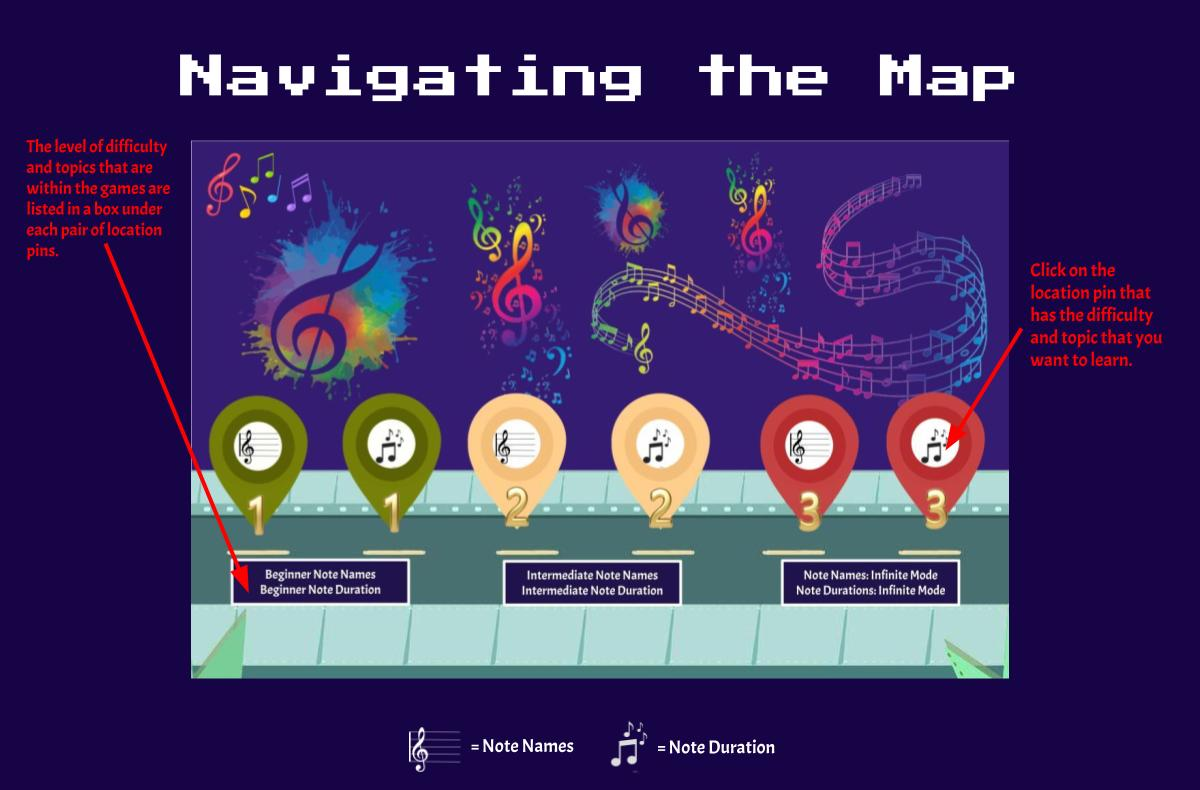
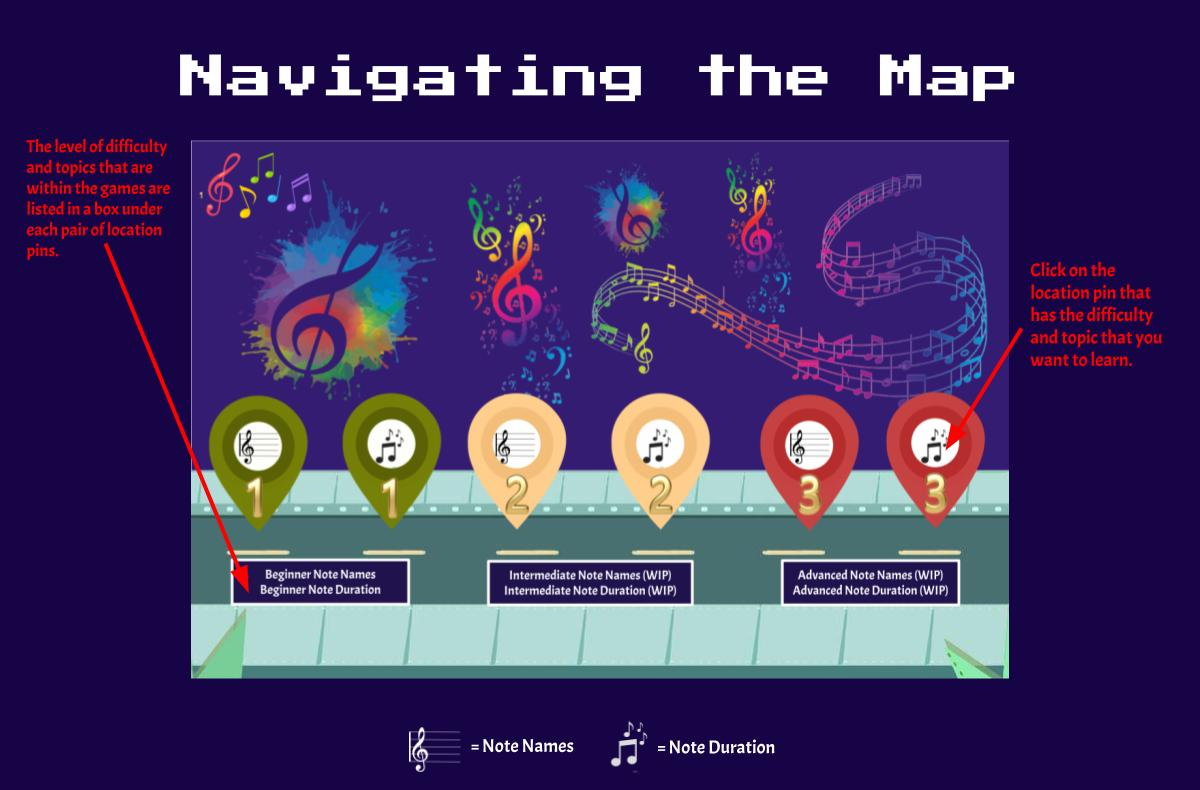
updated images

diff --git a/code/main.py b/code/main.py
@@ -28,17 +28,17 @@ class Game:
         # Background
         self.frontPage = pygame.image.load("../resources/frontpage.png")
         self.levelBackground = pygame.image.load("../resources/background.jpg")
-        self.AdvancedImage = pygame.image.load("../resources/Advanced.png")
+        self.inf_mode_img = pygame.image.load("../resources/infinite.png")
         self.startButtonImage = pygame.image.load("../resources/start.png")
         self.creditsButtonImage = pygame.image.load("../resources/credits.png")
         self.nextButtonImage = pygame.image.load("../resources/next3.png")
-        self.beginnerMap = pygame.image.load("../resources/beginner_map.jpg")
+        self.beginnerMap = pygame.image.load("../resources/beginner_map.png")
         self.beginnerTopicsCovered = pygame.image.load("../resources/beginnertopics.png")
         self.beginnerImage = pygame.image.load("../resources/beginner.png")
         self.informationPage1 = pygame.image.load("../resources/NDNotes.jpg")
         self.NDhow2play = pygame.image.load("../resources/NDdirections.png")
         self.playButton = pygame.image.load("../resources/play.png")
-        self.advMapImage = pygame.image.load("../resources/WorkInProgress.jpg")
+        self.work_in_progress = pygame.image.load("../resources/WorkInProgress.jpg")
         self.backImage = pygame.image.load("../resources/back3.png")
         self.button = pygame.image.load("../resources/copybutton3.png")
         self.pizzaNotes1 = pygame.image.load("../resources/treble_notes.png")
@@ -92,7 +92,7 @@ class Game:
         # rects
         self.beginnerRect = pygame.Rect(600-self.beginnerImage.get_width()/2, 50, self.beginnerImage.get_width(), self.beginnerImage.get_height())
         self.startRect = pygame.Rect(540, 200, self.startButtonImage.get_width(), self.startButtonImage.get_height())
-        self.infRect = pygame.Rect(600-self.AdvancedImage.get_width()/2, 400, self.AdvancedImage.get_width(), self.AdvancedImage.get_height())
+        self.infRect = pygame.Rect(600-self.inf_mode_img.get_width()/2, 400, self.inf_mode_img.get_width(), self.inf_mode_img.get_height())
         self.creditsButton = pygame.Rect(530, 300, self.creditsButtonImage.get_width(), self.creditsButtonImage.get_height())
         self.nextButton = pygame.Rect(width-self.nextButtonImage.get_width(), height-self.nextButtonImage.get_height(), self.nextButtonImage.get_width(), self.nextButtonImage.get_height())
         self.noteDurationStage1 = pygame.Rect(28, 341, 139, 188)
@@ -153,7 +153,7 @@ class Game:
                 self.SCREEN.fill(0)
                 self.SCREEN.blit(self.levelBackground, (0, 0))
                 self.SCREEN.blit(self.beginnerImage,(600-self.beginnerImage.get_width()/2, 50))
-                self.SCREEN.blit(self.AdvancedImage, (600-self.AdvancedImage.get_width()/2, 400, self.AdvancedImage.get_width(), self.AdvancedImage.get_height()))
+                self.SCREEN.blit(self.inf_mode_img, (600-self.inf_mode_img.get_width()/2, 400, self.inf_mode_img.get_width(), self.inf_mode_img.get_height()))
                 self.SCREEN.blit(self.musicbutton, (0, height-self.musicbutton.get_height()))
 
             if not self.startGame:
@@ -268,7 +268,7 @@ class Game:
                                 self.sleepCounter6+=1
 
                 if self.DurationStage2:
-                    self.SCREEN.blit(self.advMapImage, (0, 0))
+                    self.SCREEN.blit(self.work_in_progress, (0, 0))
                     self.SCREEN.blit(self.backImage, self.backRect)
                     # Insert Code to call stage 2 of note duration
                     if event.type == pygame.MOUSEBUTTONDOWN:
@@ -279,7 +279,7 @@ class Game:
                     self.notes_1 = True
 
                 if self.pizzaMan3:
-                    self.SCREEN.blit(self.advMapImage, (0, 0))
+                    self.SCREEN.blit(self.work_in_progress, (0, 0))
                     self.SCREEN.blit(self.backImage, self.backRect)
                     # Insert code to call stage 3 of pizza man minigame
                     if event.type == pygame.MOUSEBUTTONDOWN:
